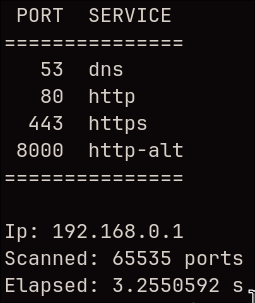
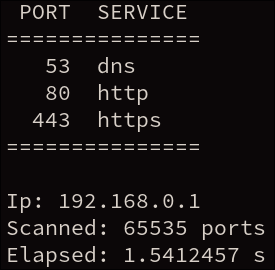
rework roadmap and update readme

diff --git a/src/uringengine.rs b/src/uringengine.rs
@@ -27,9 +27,9 @@ impl ScanEngine for UringEngine {
         }
 
         let total_ports: u16 = ports.len() as u16;
-        let concurreency: u16 = get_concurrency(total_ports);
+        let concurrency: u16 = get_concurrency(total_ports);
 
-        let mut uring = IoUring::new((2 * concurreency) as u32).unwrap();
+        let mut uring = IoUring::new((2 * concurrency) as u32).unwrap();
         let timeout_spec = types::Timespec::from(timeout);
 
         let addrs: Vec<SockAddr> = ports

diff --git a/roadmap.md b/roadmap.md
@@ -1,185 +1,120 @@
 # scanr — roadmap
 
-## Zakres produktu
+## Cel produktu
 
-- Linux-only, IPv4-only, TCP connect scanner bez uprawnień root.
-- `UringEngine` jest silnikiem głównym; ograniczony `ThreadEngine` jest fallbackiem.
-- Port i liczba skanowanych portów pozostają `u16`.
-- Dozwolone porty: `1..=u16::MAX`. Port `0` jest odrzucany.
-- `--speed` wybiera profil; użytkownik nie musi podawać timeoutu ani współbieżności.
-- Priorytety: poprawność → brak paniców → UX → powtarzalne benchmarki → tuning.
-- „Szybciej” oznacza krótszy czas przy identycznym wyniku, nie więcej false negatives.
+- Szybki TCP connect scanner dla Linuksa, IPv4-only, bez uprawnień root.
+- Prosty interfejs dla osób nietechnicznych: cel, porty, `--speed` i format wyniku.
+- `UringEngine` jest głównym backendem; ograniczony `ThreadEngine` jest fallbackiem.
+- Poprawność wyniku ma pierwszeństwo przed szybkością.
+- Porty i ich liczba pozostają `u16`; dozwolony zakres to `1..=65535`.
+
+## Zamrożone decyzje
+
+- Brak publicznych opcji wyboru backendu, timeoutu i współbieżności.
+- Fallback jest dozwolony tylko przed rozpoczęciem skanu, gdy wymagane `io_uring`
+  nie jest dostępne.
+- Błędy zasobów i błędy działającego backendu kończą skan; nie zmieniają backendu
+  ani stanu portu.
+- `HostUnreachable` i `NetworkUnreachable` pozostają osobnymi błędami celu.
+- Stdout zawiera wynik; stderr zawiera progress, ostrzeżenia i diagnostykę.
+- IPv6, inne systemy i nowe metody discovery są poza następnym wydaniem.
 
 ## Stan obecny
 
-- [x] CLI z subkomendami `scan` i `discover`.
-- [x] Parser pojedynczych portów, list i zakresów.
+- [x] Komendy `scan` i `discover`.
+- [x] Porty pojedyncze, listy i zakresy.
 - [x] Profile `fast`, `normal`, `thorough`.
-- [x] Output `table`, `json`, `csv`.
-- [x] Nazwy popularnych usług.
-- [x] TCP host discovery; prawdziwe `ECONNREFUSED` oznacza żywy host.
-- [x] Trait `ScanEngine` oraz `ThreadEngine`.
-- [~] `UringEngine`: działa, ale nie ma obsługi błędów ani testów integracyjnych.
-- [~] Automatyczny wybór silnika: sprawdza utworzenie ringa, ale nie obsługę `Connect` i `LinkTimeout`.
-- [~] Współbieżność z `RLIMIT_NOFILE`: zmiana hard → soft nie jest jeszcze widoczna w tej gałęzi; nadal brakuje zapasu FD.
-- [~] Benchmarki: istnieją wyniki eksperymentalne, ale odnoszą się do starego timeoutu i usuniętego `uring_spike`.
+- [x] Format `table`, `json`, `csv` i nazwy usług.
+- [x] Automatyczny wybór `UringEngine` lub `ThreadEngine`.
+- [x] `UringEngine` podnosi soft `RLIMIT_NOFILE` dla własnego procesu, jeśli
+  pozwala na to hard limit.
+- [x] Aktualny screenshot pełnego skanu przez `UringEngine`.
+- [~] Backendy działają, ale nie mają jeszcze wspólnej semantyki błędów.
+- [~] Wybór `io_uring` nie sprawdza jeszcze wymaganych opcode.
+- [~] Discovery działa, ale wymaga poprawienia klasyfikacji błędów i puli workerów.
+- [ ] Port `0` nadal nie jest odrzucany i może zawiesić `UringEngine`.
 
 ## P0 — poprawność i brak paniców
 
-### IPv4-only
+### Wejście
 
-- [x] Zmień typ celu z `IpAddr` na `Ipv4Addr` w CLI, konfiguracji i silnikach.
-- [ ] Odrzucaj IPv6 na granicy CLI, zanim powstanie `ScanConfig`.
-- [ ] Dodaj test: `scan ::1 80` kończy się błędem użycia i kodem wyjścia `2`.
-- [x] Usuń z roadmapy i kodu wszystkie plany obsługi IPv6.
+- [ ] Odrzuć port `0`; obsłuż poprawnie pełny zakres `1-65535`.
+- [ ] Dodaj typowane błędy portu, zakresu i CIDR.
+- [ ] Zapewnij kod wyjścia `2` dla błędnego wejścia, w tym IPv6.
+- [ ] Usuń niejawne i zawijające konwersje liczby portów.
 
-### Invariant portów i `u16`
+### Wyniki i błędy
 
-- [ ] `parse_port` odrzuca `0`; akceptuje `1` i `65535`.
-- [ ] Zachowaj `u16` dla portów, `total_ports`, `remaining` i limitu współbieżności.
-- [ ] Każdą konwersję długości do `u16` wykonuj przez `u16::try_from`, nigdy przez `as`.
-- [ ] Zarezerwuj `user_data == 0` wyłącznie dla timeoutu.
-- [ ] Dodaj testy: port `0`, pełny zakres `1-65535`, duplikaty i odwrócony zakres.
+- [ ] Zmień silniki na `Result<_, ScanError>` i dodaj nadrzędny `AppError`.
+- [ ] Ujednolić klasyfikację TCP dla obu backendów i discovery.
+- [ ] Rozróżniaj `Open`, `Closed`, `Filtered` oraz błędy celu i wykonania.
+- [ ] Usuń paniki osiągalne przez input, system operacyjny lub zapis outputu.
+- [ ] Zwracaj kod `1` dla błędu wykonania bez publikowania częściowego wyniku.
 
-### Typowane błędy
+### Zasoby i backendy
 
-- [ ] Zmień `ScanEngine::scan` na `Result<Vec<(u16, TcpResult)>, ScanError>`.
-- [ ] Dodaj `ParseError` dla złego portu, zakresu i CIDR.
-- [ ] Dodaj `ScanError` dla: ring init, unsupported opcode, socket, submit, resource limit, worker spawn/join i target unreachable.
-- [ ] Dodaj `AppError`, który opakowuje `ParseError`, `ScanError` i błąd outputu.
-- [ ] Usuń `unwrap`/`expect` z błędów zależnych od inputu lub OS; dopuszczaj `expect` tylko po sprawdzeniu invariantu i z konkretnym komunikatem.
-- [ ] Usuń błędy jako `String` z prefiksem `"Error:"`; formatowanie błędu wykonuj raz w `main`.
-- [ ] Użyj `std::io::Error::from_raw_os_error(-res).kind()` zamiast magicznego `-111`.
-- [ ] Mapowanie wyników:
-  - `0` → `Open`,
-  - `ConnectionRefused` → `Closed`,
-  - connect anulowany przez `LinkTimeout` → `Filtered`,
-  - `HostUnreachable`/`NetworkUnreachable` → błąd celu,
-  - pozostałe errno → `ScanError`, nie `Filtered`.
-- [ ] `main` zwraca kod `0` dla sukcesu, `2` dla złego wejścia i `1` dla błędu wykonania.
+- [x] Podnoś tylko soft `RLIMIT_NOFILE` procesu; nie zmieniaj hard limitu.
+- [ ] Zwróć kontrolowany błąd, gdy budżet FD jest zbyt mały.
+- [ ] Zastąp masowe tworzenie wątków stałą pulą maksymalnie 512 workerów.
+- [ ] Sprawdzaj `Connect`, `LinkTimeout` i docelowy rozmiar ringa przed wyborem
+  `UringEngine`.
+- [ ] Raportuj błędy runtime `io_uring` zamiast klasyfikować je jako port.
 
-### Limity zasobów
+### CLI
 
-- [ ] Zsynchronizuj zmianę na soft `RLIMIT_NOFILE` (`get().0`).
-- [ ] Odejmij stały zapas co najmniej 64 FD przed wyliczeniem współbieżności.
-- [ ] Jeśli budżet FD jest za mały, zwróć czytelny błąd zamiast paniki.
-- [ ] Nie przełączaj silnika po rozpoczęciu skanu; fallback jest dozwolony tylko przed pierwszym connectem.
-- [ ] `ThreadEngine`: stała pula maksymalnie 512 workerów zamiast `cpu_count * 256` wątków.
-- [ ] Użyj `thread::Builder::spawn`, aby błąd utworzenia workera zwracał `Result`.
-- [ ] Dodaj test subprocessu z soft `RLIMIT_NOFILE=64`: skan kończy się wynikiem albo kontrolowanym błędem, nigdy paniką.
+- [ ] Utrzymuj progress na stderr i wynik na stdout dla każdego formatu.
+- [ ] Dodaj `--verbose` z backendem, timeoutem, współbieżnością i soft limitem FD.
+- [ ] Obsłuż broken pipe bez paniki i backtrace.
+- [ ] Sortuj wyniki i ustabilizuj schemat JSON/CSV.
 
-### Poprawny wybór `io_uring`
+## P1 — czysty kod i testy
 
-- [ ] Probe sprawdza opcodes `Connect` i `LinkTimeout`, nie tylko `IoUring::new(1)`.
-- [ ] Utworzenie ringa o docelowej wielkości następuje przed wyborem silnika.
-- [ ] Nieobsługiwany `io_uring` uruchamia `ThreadEngine` i jest widoczny w `--verbose`.
-- [ ] Runtime error z `io_uring` jest raportowany; nie może zostać zamieniony na stan portu.
+- [ ] Rozdziel surowe argumenty, parser, konfigurację, silniki, CLI i output.
+- [ ] Przenieś aplikację do `lib.rs`; pozostaw w `main.rs` tylko exit code.
+- [ ] Usuń martwy kod, literówki i nieuzasadnione `unsafe`.
+- [ ] Dodaj testy parsera, CLI, obu backendów i ich identycznych wyników.
+- [ ] Testuj timeout/DROP w izolowanym network namespace; bez zewnętrznych hostów.
+- [ ] Dodaj CI dla fmt, Clippy i wszystkich testów oraz ustal wersję Rust.
+- [ ] Uzgodnij README, `--help`, screenshoty i zachowanie programu.
 
-## P1 — clean Rust
+## Discovery — zakres zamrożony
 
-### Granice modułów
-
-- [ ] `args.rs`: wyłącznie surowe typy clap.
-- [ ] `parser.rs`: walidacja wejścia i budowanie poprawnej konfiguracji.
-- [ ] `config.rs`: tylko zwalidowane dane domenowe.
-- [ ] `engine.rs`: `ScanEngine`, `TcpResult`, `ScanError`, wybór backendu.
-- [ ] `threadengine.rs` i `uringengine.rs`: tylko implementacje backendów.
-- [ ] `cli.rs`: orkiestracja i progress; bez logiki sieciowej.
-- [ ] `output.rs`: wyłącznie serializacja i prezentacja.
-- [ ] Przenieś logikę z binarki do `lib.rs`; `main.rs` ma tylko uruchomić aplikację i ustawić exit code.
-
-### Zasady kodu
-
-- [ ] Zamień `usize::MIN` na `0`.
-- [ ] Popraw nazwy `concurreency`, `lateny` i pozostałe literówki.
-- [ ] Przekazuj małe typy `Copy`, np. `u16`, przez wartość zamiast `&u16`.
-- [ ] Nie zapisuj typów lokalnych, gdy kompilator jednoznacznie je inferuje.
-- [ ] Każdy `unsafe` w `UringEngine` ma komentarz `SAFETY` opisujący lifetime socketów, adresów i timeoutu.
-- [ ] Wydziel czystą funkcję mapującą CQE/`io::ErrorKind` na wynik; testuj ją bez sieci.
-- [ ] Nie twórz na razie wrappera `Port`; walidacja `u16` na granicy CLI wystarcza.
-- [ ] Usuń martwy `icmp.rs`, dopóki ICMP nie wróci do zakresu projektu.
-
-### CI i toolchain
-
-- [ ] Ustaw minimalną wersję Rust przez `rust-version` i `rust-toolchain.toml`.
-- [ ] CI: `cargo fmt --check`.
-- [ ] CI: `cargo clippy --all-targets --all-features -- -D warnings`.
-- [ ] CI: `cargo test --all-targets`.
-- [ ] Testy `UringEngine` pomijaj tylko wtedy, gdy kernel rzeczywiście nie obsługuje wymaganych opcode.
-
-## P1 — testy poprawności
-
-- [ ] Parser: granice `1`/`65535`, port `0`, pełny zakres, listy, duplikaty i błędy.
-- [ ] `ThreadEngine`: lokalny IPv4 open i closed.
-- [ ] `UringEngine`: ten sam lokalny zestaw open/closed.
-- [ ] Oba silniki zwracają identyczne, posortowane wyniki dla tego samego celu.
-- [ ] Timeout/DROP testuj w izolowanym network namespace z `nftables`; opóźnione `accept()` nie symuluje DROP.
-- [ ] Discovery: tylko `Open` i `ConnectionRefused` oznaczają host alive.
-- [ ] CLI: kody wyjścia `0/1/2`, JSON na stdout, błędy i progress na stderr.
-- [ ] Żaden test automatyczny nie skanuje zewnętrznego hosta.
-
-## P1 — UX CLI
-
-- [ ] Popraw README: `scanr scan`, `scanr discover`, instalacja, Linux/IPv4-only i wymagana wersja Rust.
-- [ ] Usuń niedziałające odwołania do `assets` albo dodaj rzeczywiste pliki.
-- [ ] Dodaj `#[command(version, about)]` i konkretne opisy argumentów.
-- [ ] Dokumentuj rzeczywiste wartości timeoutów profili.
-- [ ] Sortuj porty i hosty przed każdym formatem outputu.
-- [ ] Progress zapisuj na stderr; wynik na stdout.
-- [ ] Dla discovery używaj etykiety `alive`, nie `open`.
-- [ ] JSON kończy się newline i ma stabilny, przetestowany schemat.
-- [ ] Dodaj `--verbose`: wybrany silnik, timeout, współbieżność i soft limit FD.
-- [ ] Błąd zapisu/broken pipe nie może powodować panic backtrace.
-- [ ] README zawiera krótką informację: skanuj wyłącznie systemy, na które masz zgodę.
-
-## P2 — wiarygodne benchmarki
-
-- [ ] Usuń wyniki odnoszące się do nieistniejącego `examples/uring_spike.rs`.
-- [ ] Benchmarkuj aktualną binarkę `--release`, nie osobny prototyp.
-- [ ] Zapisuj: commit, CPU, kernel, Rust, soft/hard NOFILE, engine, timeout, concurrency i target.
-- [ ] Każdy wynik: minimum 20 przebiegów, mediana, min/max i odchylenie.
-- [ ] Osobne scenariusze:
-  - localhost/RST — narzut silnika,
-  - kontrolowany DROP — timeout-bound,
-  - znane open/closed/drop — poprawność,
-  - LAN — zachowanie prawdziwego routera.
-- [ ] Porównuj silniki przy identycznym timeout, współbieżności i oczekiwanym wyniku.
-- [ ] Porównuj z `nmap -sT`; nie porównuj TCP connect scanera z raw SYN scannerem.
-- [ ] Bramka dla claimu „1000 portów < 1 s”: mediana < 1 s na opisanym celu LAN i zero błędnie sklasyfikowanych portów.
-- [ ] Claim o pełnym zakresie publikuj tylko z pełną komendą, warunkami i wynikiem poprawności.
-
-## P2 — tuning po przejściu P0/P1
-
-- [ ] Batchuj submit/drain CQE; ogranicz liczbę `submit_and_wait(1)`.
-- [ ] Profiluj przed zmianą `HashMap`; optymalizuj wyłącznie potwierdzony hot path.
-- [ ] Adaptywny timeout: próbka RTT, ograniczone minimum/maksimum i test false negatives.
-- [ ] AIMD concurrency reaguje na resource errors i completion rate; zawsze respektuje soft NOFILE.
-- [ ] Dodaj limit burst/rate, jeśli router gubi wyniki przy wysokiej współbieżności.
-- [ ] Zachowaj profile jako prosty interfejs; parametry techniczne pokazuj w `--verbose`.
-
-## Discovery — zamrożony zakres
-
-- [ ] Użyj tego samego klasyfikatora błędów co skan portów.
-- [ ] Zastąp tysiące wątków tą samą ograniczoną pulą workerów co `ThreadEngine`.
-- [ ] Zachowaj wejściowy CIDR w `DiscoverConfig` i dodaj go do JSON/table.
-- [ ] Ostrzegaj na stderr przy zakresie większym niż `/24`; bez interaktywnego potwierdzenia.
+- [ ] Użyj wspólnego klasyfikatora TCP i ograniczonej puli workerów.
+- [ ] Zachowaj wejściowy CIDR w wyniku.
+- [ ] Ostrzegaj przy zakresie większym niż `/24`.
 - [ ] Nie dodawaj ICMP ani ARP przed ukończeniem P0/P1.
+
+## P2 — benchmarki i tuning
+
+- [ ] Benchmarkuj aktualną binarkę `--release` w kontrolowanych scenariuszach.
+- [ ] Porównuj backendy i `nmap -sT` przy tych samych warunkach i wyniku.
+- [ ] Publikuj medianę co najmniej 20 przebiegów wraz ze środowiskiem testu.
+- [ ] Claim „1000 portów < 1 s” wymaga mediany poniżej 1 s i braku błędów.
+- [ ] Dopiero po profilowaniu rozważ batching CQE, adaptacyjny timeout i AIMD.
 
 ## Poza zakresem
 
-- IPv6.
-- macOS, Windows i `MioEngine`.
-- Raw SYN scan wymagający root/capabilities.
-- ICMP, ARP i wykrywanie middleboxa przed stabilizacją TCP.
-- TUI/ratatui przed stabilnym CLI.
-- Hostname/DNS przed stabilnym skanem pojedynczego IPv4.
+- IPv6, macOS, Windows i `MioEngine`.
+- Raw SYN scan, ICMP i ARP.
+- Hostname/DNS, TUI i publiczne strojenie backendu.
 
-## Definition of done dla następnego wydania
+## Kolejność najbliższych prac
 
-- [ ] Brak `unwrap`/`expect` na błędach osiągalnych z inputu lub OS; każdy pozostały `expect` dokumentuje sprawdzony invariant.
-- [ ] Brak paniców przy złym wejściu, niskim NOFILE i niedostępnym `io_uring`.
-- [ ] Thread i Uring mają identyczną semantykę wyników.
-- [ ] IPv6 jest odrzucane przez CLI.
-- [ ] Port `0` jest odrzucany; `1-65535` działa.
-- [ ] CI przechodzi fmt, clippy i wszystkie testy.
-- [ ] README, `--help`, benchmarki i kod opisują te same zachowania.
+1. Odrzucenie portu `0` i testy granic parsera.
+2. `ParseError`, `ScanError`, `AppError` i kody wyjścia.
+3. Wspólny klasyfikator wyników TCP.
+4. Kontrolowane limity zasobów i stała pula workerów.
+5. Pełny probe oraz testy integracyjne `io_uring`.
+6. Porządek modułów, CI, dokumentacja i dopiero potem benchmarki.
+
+Jednocześnie realizujemy jeden mały krok, możliwy do zamknięcia wraz z testami w
+około godzinę. Szczegóły implementacji należą do rozmowy i testów, nie do roadmapy.
+
+## Definition of Done następnego wydania
+
+- [ ] Brak paniców i zawieszeń dla złego inputu, niskiego NOFILE i braku `io_uring`.
+- [ ] Port `0` i IPv6 są odrzucane; pełny zakres działa.
+- [ ] Oba backendy mają identyczną semantykę i posortowane wyniki.
+- [ ] Fallback zachodzi wyłącznie przed pierwszym connectem.
+- [ ] Domyślne CLI nie wymaga wiedzy o backendzie ani zasobach systemowych.
+- [ ] CI, README, `--help` i wszystkie testy są zgodne z wydaniem.

diff --git a/README.md b/README.md
@@ -6,12 +6,14 @@
                        ██████ ▒▒██████ ▒▒████████ ████ █████ █████    
                       ▒▒▒▒▒▒   ▒▒▒▒▒▒   ▒▒▒▒▒▒▒▒ ▒▒▒▒ ▒▒▒▒▒ ▒▒▒▒▒ 
 ```
-Minimal CLI port scanner written in Rust.
+Fast TCP connect scanner for Linux, written in Rust. It scans IPv4 targets without
+root privileges and automatically selects `io_uring` or the thread fallback.
 
 ## Usage
 
 ```bash
-scanr [OPTIONS] <IP> <PORTS>
+scanr scan <IPV4> <PORTS> [OPTIONS]
+scanr discover <CIDR> [OPTIONS]
 ```
 
 `<ports>` accepts a single port, a range, a comma-separated list, or a mix of lists and ranges.
@@ -19,10 +21,10 @@ scanr [OPTIONS] <IP> <PORTS>
 ## Examples
 
 ```bash
-scan 192.168.0.1 1-65535 --speed thorough
-scan 192.168.0.1 22,80,443 --format json
-discover 192.168.0.1/24 
-discover 192.168.0.1/24 --speed fast
+scanr scan 192.168.0.1 1-65535 --speed thorough
+scanr scan 192.168.0.1 22,80,443 --format json
+scanr discover 192.168.0.1/24
+scanr discover 192.168.0.1/24 --speed fast
 ```
 
 ## Port input
@@ -38,27 +40,42 @@ discover 192.168.0.1/24 --speed fast
 
 - `table`: human-readable output with progress bar
 - `csv`: comma-separated output for scripts or files
-- `json`: JSON-like output for tools
+- `json`: JSON output for tools
 
 Use `--format <FORMAT>` to select an output format. The default is `table`.
 
 ## Speed modes
 
-- `fast`: short timeout for quicker scans on LAN
-- `normal`: default timeout, generally good
-- `thorough`: longer timeout for high latency networks or VPN
+- `fast`: 250 ms timeout for LAN scans
+- `normal`: 500 ms timeout (default)
+- `thorough`: 1000 ms timeout for higher-latency networks or VPNs
 
 Use `--speed <SPEED>` to select a speed preset. The default is `normal`.
 
-## Capabilities
+## File descriptor limit
 
-Scanner is able to scan full port range in 3s.
+Before an `io_uring` scan, `scanr` tries to raise its own soft `RLIMIT_NOFILE` to
+the value needed by the scan, up to the existing hard limit. This change affects
+only the running `scanr` process: it does not modify the shell, system configuration,
+or hard limit, and it does not require root.
+
+## Example result
+
+The run below scanned all 65,535 ports of the author's LAN router with
+`UringEngine` in 1.54 seconds:
+
+```bash
+cargo run --release -- scan 192.168.0.1 1-65535
+```
+
+This screenshot is an example, not a portable benchmark. Scan time depends on the
+target, network behavior, kernel, timeout profile, and file descriptor limits.
 
 <p align="center">
   <img src="./assets/Scan_full_range.png" alt="Scan of 65535 ports" width="65%">
 </p>
 
-Scanner is also able to discover hosts.
+`scanr` can also discover hosts with TCP probes.
 
 <p align="center">
   <img src="./assets/Discover.png" alt="Discover of alive hosts" width="65%">
@@ -69,6 +86,10 @@ Scanner is also able to discover hosts.
 ```bash
 cargo build --release
 ```
+
+The binary is created at `target/release/scanr`.
+
+Only scan systems that you own or have explicit permission to test.
 
 ## License
 MIT